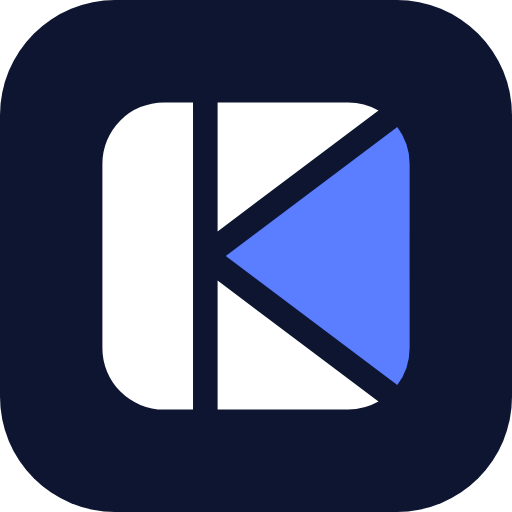
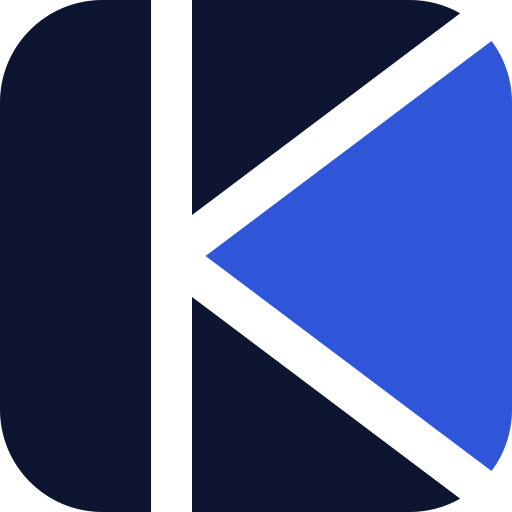
Sideskiftet blinker ikke i Safari, og app-ikonet er bare symbolet
- Del 2 blinket i Safari når del 3 gled over: stemplene hadde mix-blend-mode, som Safari må tegne
  på nytt mens arket animeres. Stemplene blandes ikke lenger med papiret; de ser nesten like ut.
- App-ikonet (Hjem-skjermen, Safari og installert app) er symbolet alene, uten flate eller kant
  rundt: kvadratet fyller hele ikonet, med nattblå moduler, blå kile og hvite mellomrom. Det gjelder
  både appen og nettstedet. Favikonet fyller også hele flaten.
- Ikonene lages med scripts/lag-ikoner.mjs og har ny adresse (?v=2), så nettleseren og iPhone ikke
  bruker de gamle fra hurtigbufferen.
- Merkevaren: README, app-ikonet og oversiktsbildet.

Claude-Session: https://claude.ai/code/session_01B6fbTrpkXgZeYxFaShCZow

diff --git a/landingsside/felles.css b/landingsside/felles.css
@@ -138,7 +138,9 @@ main [tabindex="-1"]:focus, main[tabindex="-1"]:focus { outline: none; }
 .x { display: inline-grid; place-items: center; width: 18px; height: 18px; border: 1.5px solid var(--ink); font: 500 13px/1 var(--font-type); color: var(--type); flex: none; background: var(--paper); }
 .x::before { content: "X"; }
 .x.tom::before { content: ""; }
-.stempel { display: inline-block; font: 700 13px/1 var(--font-display); letter-spacing: .14em; text-transform: uppercase; color: var(--stamp); border: 2.5px solid var(--stamp); outline: 1px solid var(--stamp); outline-offset: 2px; padding: 6px 10px 5px; transform: rotate(-6deg); opacity: .88; mix-blend-mode: multiply; white-space: nowrap; }
+/* Stemplene blandes ikke med papiret (mix-blend-mode): i Safari blinket et ark med stempler mens det
+   lå under det neste i sideskiftet. */
+.stempel { display: inline-block; font: 700 13px/1 var(--font-display); letter-spacing: .14em; text-transform: uppercase; color: var(--stamp); border: 2.5px solid var(--stamp); outline: 1px solid var(--stamp); outline-offset: 2px; padding: 6px 10px 5px; transform: rotate(-6deg); opacity: .88; white-space: nowrap; }
 .stempel small { display: block; font: 500 10px var(--font-type); letter-spacing: .04em; margin-top: 3px; }
 .stempel.blaa { color: var(--ink-deep); border-color: var(--ink-deep); outline-color: var(--ink-deep); }
 .stempel.gronn { color: var(--ok); border-color: var(--ok); outline-color: var(--ok); }

diff --git a/web/index.html b/web/index.html
@@ -21,9 +21,9 @@
     <meta property="og:site_name" content="Admin Konsoll" />
     <meta property="og:title" content="Admin Konsoll" />
     <meta property="og:description" content="Faktura, lønn, personal og regnskap for norske bedrifter, samlet i én konsoll." />
-    <link rel="icon" type="image/svg+xml" href="/favicon.svg" />
+    <link rel="icon" type="image/svg+xml" href="/favicon.svg?v=2" />
     <link rel="manifest" href="/manifest.webmanifest" />
-    <link rel="apple-touch-icon" href="/ikoner/apple-touch-icon.png" />
+    <link rel="apple-touch-icon" href="/ikoner/apple-touch-icon.png?v=2" />
     <meta name="mobile-web-app-capable" content="yes" />
     <meta name="apple-mobile-web-app-capable" content="yes" />
     <meta name="apple-mobile-web-app-title" content="Admin Konsoll" />

diff --git a/landingsside/databehandleravtale.html b/landingsside/databehandleravtale.html
@@ -8,8 +8,8 @@
 <meta name="robots" content="index, follow">
 <link rel="canonical" href="https://adminkonsoll.no/databehandleravtale.html">
 <meta name="theme-color" content="#0d1530">
-<link rel="icon" href="favicon.svg" type="image/svg+xml">
-<link rel="apple-touch-icon" href="ikoner/apple-touch-icon.png">
+<link rel="icon" href="favicon.svg?v=2" type="image/svg+xml">
+<link rel="apple-touch-icon" href="ikoner/apple-touch-icon.png?v=2">
 <meta name="apple-mobile-web-app-title" content="Admin Konsoll">
 <meta name="apple-mobile-web-app-status-bar-style" content="black-translucent">
 <meta property="og:type" content="website">

diff --git a/landingsside/informasjonskapsler.html b/landingsside/informasjonskapsler.html
@@ -8,8 +8,8 @@
 <meta name="robots" content="index, follow">
 <link rel="canonical" href="https://adminkonsoll.no/informasjonskapsler.html">
 <meta name="theme-color" content="#0d1530">
-<link rel="icon" href="favicon.svg" type="image/svg+xml">
-<link rel="apple-touch-icon" href="ikoner/apple-touch-icon.png">
+<link rel="icon" href="favicon.svg?v=2" type="image/svg+xml">
+<link rel="apple-touch-icon" href="ikoner/apple-touch-icon.png?v=2">
 <meta name="apple-mobile-web-app-title" content="Admin Konsoll">
 <meta name="apple-mobile-web-app-status-bar-style" content="black-translucent">
 <meta property="og:type" content="website">

diff --git a/landingsside/underleverandorer.html b/landingsside/underleverandorer.html
@@ -8,8 +8,8 @@
 <meta name="robots" content="index, follow">
 <link rel="canonical" href="https://adminkonsoll.no/underleverandorer.html">
 <meta name="theme-color" content="#0d1530">
-<link rel="icon" href="favicon.svg" type="image/svg+xml">
-<link rel="apple-touch-icon" href="ikoner/apple-touch-icon.png">
+<link rel="icon" href="favicon.svg?v=2" type="image/svg+xml">
+<link rel="apple-touch-icon" href="ikoner/apple-touch-icon.png?v=2">
 <meta name="apple-mobile-web-app-title" content="Admin Konsoll">
 <meta name="apple-mobile-web-app-status-bar-style" content="black-translucent">
 <meta property="og:type" content="website">

diff --git a/landingsside/personvern.html b/landingsside/personvern.html
@@ -8,8 +8,8 @@
 <meta name="robots" content="index, follow">
 <link rel="canonical" href="https://adminkonsoll.no/personvern.html">
 <meta name="theme-color" content="#0d1530">
-<link rel="icon" href="favicon.svg" type="image/svg+xml">
-<link rel="apple-touch-icon" href="ikoner/apple-touch-icon.png">
+<link rel="icon" href="favicon.svg?v=2" type="image/svg+xml">
+<link rel="apple-touch-icon" href="ikoner/apple-touch-icon.png?v=2">
 <meta name="apple-mobile-web-app-title" content="Admin Konsoll">
 <meta name="apple-mobile-web-app-status-bar-style" content="black-translucent">
 <meta property="og:type" content="website">

diff --git a/landingsside/vilkar.html b/landingsside/vilkar.html
@@ -8,8 +8,8 @@
 <meta name="robots" content="index, follow">
 <link rel="canonical" href="https://adminkonsoll.no/vilkar.html">
 <meta name="theme-color" content="#0d1530">
-<link rel="icon" href="favicon.svg" type="image/svg+xml">
-<link rel="apple-touch-icon" href="ikoner/apple-touch-icon.png">
+<link rel="icon" href="favicon.svg?v=2" type="image/svg+xml">
+<link rel="apple-touch-icon" href="ikoner/apple-touch-icon.png?v=2">
 <meta name="apple-mobile-web-app-title" content="Admin Konsoll">
 <meta name="apple-mobile-web-app-status-bar-style" content="black-translucent">
 <meta property="og:type" content="website">

diff --git a/landingsside/index.html b/landingsside/index.html
@@ -8,8 +8,8 @@
 <meta name="robots" content="index, follow">
 <link rel="canonical" href="https://adminkonsoll.no/">
 <meta name="theme-color" content="#0d1530">
-<link rel="icon" href="favicon.svg" type="image/svg+xml">
-<link rel="apple-touch-icon" href="ikoner/apple-touch-icon.png">
+<link rel="icon" href="favicon.svg?v=2" type="image/svg+xml">
+<link rel="apple-touch-icon" href="ikoner/apple-touch-icon.png?v=2">
 <meta name="apple-mobile-web-app-title" content="Admin Konsoll">
 <meta name="apple-mobile-web-app-status-bar-style" content="black-translucent">
 <meta property="og:type" content="website">

diff --git a/web/sw.js b/web/sw.js
@@ -92,7 +92,7 @@ self.addEventListener("push", (e) => {
   }
   const valg = {
     body: d.tekst || "",
-    icon: "/ikoner/ikon-192.png",
+    icon: "/ikoner/ikon-192.png?v=2",
     badge: "/ikoner/merke-96.png",
     lang: "nb",
     timestamp: d.tid || Date.now(),

diff --git a/docs/merkevare/README.md b/docs/merkevare/README.md
@@ -19,11 +19,14 @@
 | `admin-konsoll-logo.svg` / `.png` | Logoen på lys bunn |
 | `admin-konsoll-logo-negativ.svg` / `.png` | Logoen på mørk bunn |
 | `admin-konsoll-symbol.svg` | Symbolet alene |
-| `admin-konsoll-app-ikon.svg` / `.png` | App-ikonet (symbolet på nattblå flate) |
+| `admin-konsoll-app-ikon.svg` / `.png` | App-ikonet: symbolet alene, som fyller hele ikonet |
 
 I appen: `web/src/Logo.tsx` (stiene ligger i `web/src/logoStier.ts`), `web/public/favicon.svg`
-og app-ikonene i `web/public/ikoner`. Fargene i appen settes med `--logo-farge` og `--logo-kile`
-i `web/src/styles.css`. Logoen står som på nettstedet: i lyst utseende på papir med dobbel strek i
+og app-ikonene i `web/public/ikoner`. App-ikonet er symbolet alene, uten flate eller kant rundt:
+kvadratet fyller hele ikonet, med nattblå moduler, blå kile og hvite mellomrom. iPhone og Android
+runder av hjørnene selv. Favikonet fyller også hele flaten. Ikonene lages med
+`scripts/lag-ikoner.mjs` (kjøres fra `server/`), også nettstedets kopi i `landingsside/ikoner/`.
+Fargene i appen settes med `--logo-farge` og `--logo-kile` i `web/src/styles.css`. Logoen står som på nettstedet: i lyst utseende på papir med dobbel strek i
 trykkfargen under (hele toppen på mobil, hodet øverst i sidemenyen på PC), i fargene for lys bunn.
 I mørkt utseende er den hvit på mørk bunn. Innloggingen og skjermene før appen (bekreft e-post,
 venter på godkjenning) er blanketter som nettstedet (`web/src/blankett.tsx` og `blankett.css`).

diff --git a/landingsside/README.md b/landingsside/README.md
@@ -16,7 +16,7 @@ bygges ikke; filene publiseres som de er.
 | `nettsted.js` | Måler hvor toppen slutter (`--hode`), sender kontaktskjemaet og viser siden om appen når nettstedet åpnes fra Hjem-skjermen ([Hjem-skjermen](#hjem-skjermen)). Sideskiftet gjør nettleseren selv. Uten skriptet virker alt |
 | `fonter/` | Inter, Schibsted Grotesk og IBM Plex Mono (SIL Open Font License, lisensene ligger ved) |
 | `robots.txt`, `sitemap.xml`, `og-bilde.png`, `favicon.svg` | SEO og deling |
-| `ikoner/` | Appens ikon for Hjem-skjermen (kopi av `web/public/ikoner`) |
+| `ikoner/` | Appens ikon for Hjem-skjermen: symbolet alene (laget med `scripts/lag-ikoner.mjs`, som i `web/public/ikoner`) |
 | `firebase.json` | Firebase Hosting: korte adresser (`/vilkar` → `/vilkar.html`), sikkerhetshoder, hurtigbuffer, og alt annet videre til API-et, som sender gamle lenker til appen |
 | `sw.js` | Fjerner den gamle appens service worker og hurtigbuffer hos dem som hadde appen på `adminkonsoll.no` |
 
